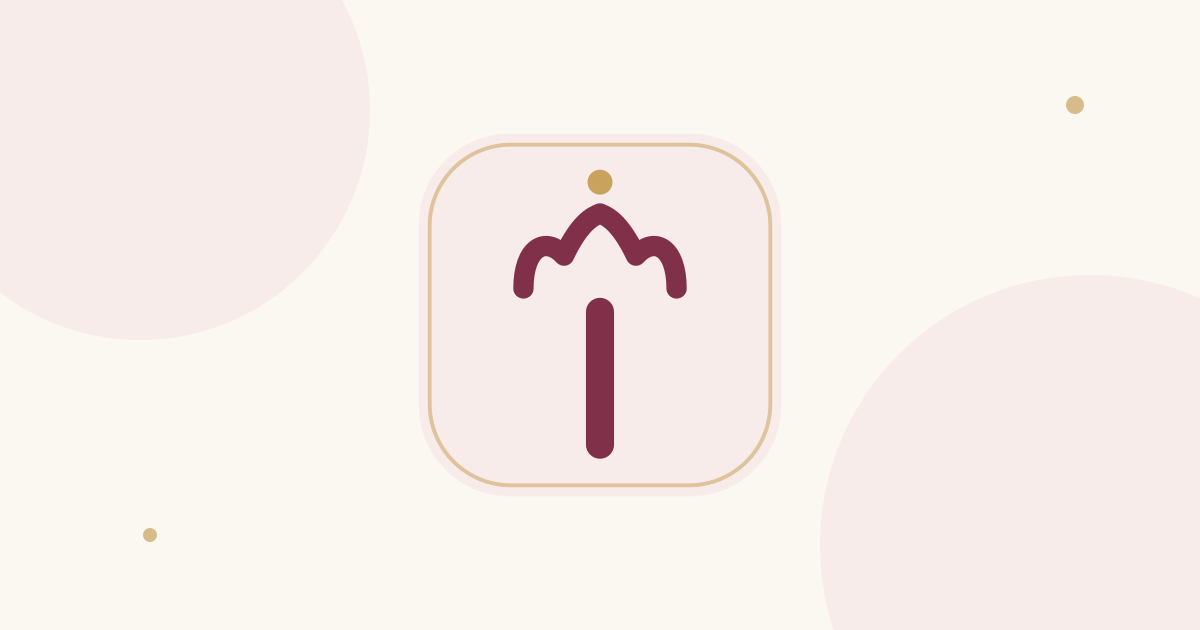
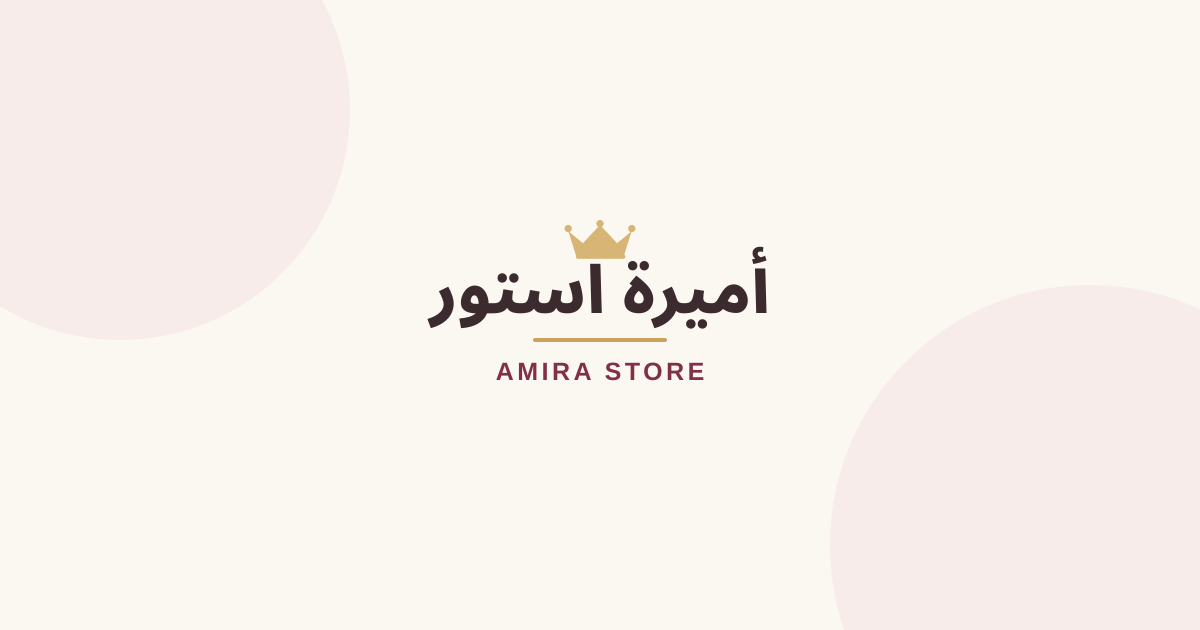
Add files via upload (#18)

diff --git a/src/components/brand/brand-logo.tsx b/src/components/brand/brand-logo.tsx
@@ -4,7 +4,7 @@ import { cn } from "@/lib/utils";
 import { LogoMark } from "./logo-mark";
 
 type BrandLogoProps = {
-  /** Custom logo URL (Admin-uploaded). Falls back to brand settings, then the default mark. */
+  /** Explicitly supplied custom asset. Used only when the caller opts into it. */
   logoUrl?: string | null;
   storeName?: string;
   className?: string;
@@ -14,16 +14,41 @@ type BrandLogoProps = {
   showArabicWordmark?: boolean;
   showEnglishWordmark?: boolean;
   englishWordmarkClassName?: string;
+  useCustomAsset?: boolean;
 };
 
+function Crown({ className }: { className?: string }) {
+  return (
+    <svg
+      aria-hidden="true"
+      viewBox="0 0 72 40"
+      className={cn("shrink-0 text-gold", className)}
+      fill="none"
+    >
+      <path
+        d="M10 11 22 21 36 6l14 15 12-10-7 22H17L10 11Z"
+        fill="currentColor"
+      />
+      <path
+        d="M18 32h37"
+        stroke="currentColor"
+        strokeWidth="3.5"
+        strokeLinecap="round"
+      />
+      <circle cx="10" cy="9" r="3" fill="currentColor" />
+      <circle cx="36" cy="5" r="3" fill="currentColor" />
+      <circle cx="62" cy="9" r="3" fill="currentColor" />
+    </svg>
+  );
+}
+
 /**
- * The only component feature UI may use to render the store logo.
- * Renders a custom admin-provided logo when available; otherwise renders the
- * default mark + wordmark. Keeps branding replaceable without code edits.
+ * Single storefront brand renderer.
  *
- * PHASE-10: settings-driven — the resolver reads the store_settings logo
- * reference (public media only, D-4) and falls back to the default mark.
- * Server component; explicit props still win (used by admin surfaces).
+ * The default storefront identity is a designed Arabic/English lockup with a
+ * visible crown, so an arbitrary admin-uploaded image cannot collapse the
+ * header into an unreadable thumbnail. Settings pages still show and manage
+ * the currently uploaded asset independently.
  */
 export async function BrandLogo({
   logoUrl,
@@ -35,41 +60,72 @@ export async function BrandLogo({
   showArabicWordmark = false,
   showEnglishWordmark = false,
   englishWordmarkClassName,
+  useCustomAsset = false,
 }: BrandLogoProps) {
   const settings = await getBrandSettings();
   const name = storeName ?? settings.storeName;
   const src = logoUrl ?? settings.logoUrl;
 
-  return (
-    <span className={cn("inline-flex min-w-0 items-center gap-2.5", className)}>
-      {src ? (
+  if (useCustomAsset && src && !(showArabicWordmark || showEnglishWordmark)) {
+    return (
+      <span className={cn("inline-flex min-w-0 items-center", className)}>
         <img
           src={src}
           alt={name}
-          className={cn("h-11 w-auto max-w-28 shrink-0 object-contain", logoClassName)}
+          className={cn("h-11 w-auto max-w-40 shrink-0 object-contain", logoClassName)}
         />
-      ) : (
-        <LogoMark className={cn("h-11 w-11", markClassName)} title={name} />
-      )}
-      <span className="flex min-w-0 flex-col gap-1">
-        {!src || showArabicWordmark ? (
-          <span className={cn("whitespace-nowrap text-xl font-extrabold leading-none tracking-tight", wordmarkClassName)}>
-            {name}
-          </span>
-        ) : null}
-        {showEnglishWordmark ? (
-          <span
-            dir="ltr"
-            lang="en"
-            className={cn(
-              "whitespace-nowrap text-[0.625rem] font-semibold leading-none tracking-[0.14em] text-gold-deep",
-              englishWordmarkClassName,
-            )}
-          >
-            {BRAND.storeNameLatin.toUpperCase()}
-          </span>
-        ) : null}
       </span>
+    );
+  }
+
+  const showArabic = showArabicWordmark || !showEnglishWordmark;
+  const showEnglish = showEnglishWordmark;
+
+  return (
+    <span
+      className={cn(
+        "inline-flex min-w-0 items-center gap-2.5",
+        className,
+      )}
+    >
+      {!showArabic && !showEnglish ? (
+        <LogoMark className={cn("h-10 w-10", markClassName)} title={name} />
+      ) : null}
+      {showArabic || showEnglish ? (
+        <span className="relative flex min-w-0 flex-col items-center pt-2">
+          {showArabic ? (
+            <>
+              <Crown className="absolute -top-1 h-4 w-7 sm:h-[1.1rem] sm:w-8" />
+              <span
+                className={cn(
+                  "whitespace-nowrap text-[1.05rem] font-extrabold leading-none tracking-tight text-foreground",
+                  wordmarkClassName,
+                )}
+              >
+                {name}
+              </span>
+            </>
+          ) : null}
+          {showEnglish ? (
+            <span
+              dir="ltr"
+              lang="en"
+              className={cn(
+                "mt-1 whitespace-nowrap text-[0.58rem] font-semibold uppercase leading-none tracking-[0.24em] text-gold-deep",
+                englishWordmarkClassName,
+              )}
+            >
+              {BRAND.storeNameLatin}
+            </span>
+          ) : null}
+          {showArabic && showEnglish ? (
+            <span
+              aria-hidden="true"
+              className="mt-1 h-px w-8 rounded-full bg-gold/80 sm:w-10"
+            />
+          ) : null}
+        </span>
+      ) : null}
     </span>
   );
 }

diff --git a/src/components/brand/logo-mark.tsx b/src/components/brand/logo-mark.tsx
@@ -5,13 +5,7 @@ type LogoMarkProps = {
   title?: string;
 };
 
-/**
- * The original default Amira Store mark (PHASE-01): a clear Arabic alef
- * monogram with a restrained champagne hamza, framed in the store palette.
- *
- * This component renders the DEFAULT mark only. `BrandLogo` switches to an
- * Admin-uploaded logo when one is configured.
- */
+/** Compact Amira Store crown + alef mark for favicon/compact placements. */
 export function LogoMark({ className, title = "شعار أميرة استور" }: LogoMarkProps) {
   return (
     <svg
@@ -32,35 +26,31 @@ export function LogoMark({ className, title = "شعار أميرة استور" }
         strokeOpacity="0.72"
         strokeWidth="4"
       />
-      <circle cx="256" cy="256" r="166" fill="#803049" />
+      <circle cx="256" cy="278" r="136" fill="#803049" />
       <path
-        d="M256 192v166"
+        d="M256 216v152"
         fill="none"
         stroke="#FFF9F4"
         strokeWidth="34"
         strokeLinecap="round"
       />
       <path
-        d="M178 166 163 128l41 21 52-43 52 43 41-21-15 38H178Z"
+        d="M150 166 126 103l78 41 52-72 52 72 78-41-24 63H150Z"
         fill="#D7B675"
         stroke="#803049"
-        strokeWidth="5"
+        strokeWidth="6"
         strokeLinejoin="round"
       />
       <path
-        d="M184 171h144"
+        d="M150 168h212"
         fill="none"
         stroke="#D7B675"
-        strokeWidth="10"
+        strokeWidth="13"
         strokeLinecap="round"
       />
-      <path
-        d="M222 390h68"
-        fill="none"
-        stroke="#D7B675"
-        strokeWidth="10"
-        strokeLinecap="round"
-      />
+      <circle cx="126" cy="101" r="10" fill="#D7B675" />
+      <circle cx="256" cy="70" r="10" fill="#D7B675" />
+      <circle cx="386" cy="101" r="10" fill="#D7B675" />
     </svg>
   );
 }

diff --git a/src/components/store/store-header.tsx b/src/components/store/store-header.tsx
@@ -30,8 +30,8 @@ export async function StoreHeader() {
   const tree = await getStorefrontCategoryTree();
 
   return (
-    <header className="sticky top-0 z-40 border-b border-border/80 bg-background">
-      <Container className="flex h-[3.75rem] items-center justify-between gap-2 xl:h-[4.5rem] xl:gap-4">
+    <header className="sticky top-0 z-40 border-b border-border/80 bg-background/95 backdrop-blur supports-[backdrop-filter]:bg-background/85">
+      <Container className="flex h-[4.1rem] items-center justify-between gap-2 xl:h-[4.75rem] xl:gap-4">
         <div className="flex min-w-0 items-center gap-1.5 sm:gap-2">
           <Sheet>
             <SheetTrigger
@@ -101,11 +101,9 @@ export async function StoreHeader() {
             <BrandLogo
               showArabicWordmark
               showEnglishWordmark
-              className="gap-1.5 sm:gap-2"
-              markClassName="size-9 sm:size-10 xl:size-12"
-              logoClassName="h-9 w-auto max-w-14 sm:h-10 sm:max-w-16 xl:h-12 xl:max-w-20"
-              wordmarkClassName="text-base sm:text-lg xl:text-xl"
-              englishWordmarkClassName="text-[0.6rem] sm:text-[0.625rem]"
+              className="shrink-0"
+              wordmarkClassName="text-[1rem] sm:text-[1.05rem] xl:text-xl"
+              englishWordmarkClassName="text-[0.52rem] sm:text-[0.56rem] xl:text-[0.6rem]"
             />
           </Link>
         </div>

diff --git a/src/app/admin/(protected)/layout.tsx b/src/app/admin/(protected)/layout.tsx
@@ -38,10 +38,10 @@ export default async function ProtectedAdminLayout({
             className="inline-flex max-w-full shrink-0 rounded-lg focus-visible:outline-2 focus-visible:outline-offset-2 focus-visible:outline-ring"
           >
             <BrandLogo
+              showArabicWordmark
               showEnglishWordmark
-              markClassName="h-12 w-12"
-              logoClassName="h-12 w-auto max-w-40"
               wordmarkClassName="text-lg"
+              englishWordmarkClassName="text-[0.56rem]"
             />
           </Link>
           <span className="hidden rounded-full bg-blush px-3 py-1 text-xs font-semibold text-secondary-foreground sm:inline">

diff --git a/src/components/store/store-footer.tsx b/src/components/store/store-footer.tsx
@@ -64,8 +64,11 @@ export async function StoreFooter() {
           {/* Brand */}
           <div className="flex flex-col items-start gap-4">
             <BrandLogo
+              showArabicWordmark
+              showEnglishWordmark
               className="text-footer-foreground"
-              markClassName="h-11 w-11"
+              wordmarkClassName="text-xl text-footer-foreground"
+              englishWordmarkClassName="text-[0.58rem] text-gold"
             />
             <p className="max-w-xs text-sm leading-loose text-footer-foreground/70">
               {settings.footerText}

diff --git a/src/app/admin/login/page.tsx b/src/app/admin/login/page.tsx
@@ -25,7 +25,12 @@ export default function AdminLoginPage() {
     >
       <div className="w-full max-w-md">
         <div className="mb-8 flex flex-col items-center gap-2 text-center">
-          <BrandLogo markClassName="h-12 w-12" wordmarkClassName="text-2xl" />
+          <BrandLogo
+            showArabicWordmark
+            showEnglishWordmark
+            wordmarkClassName="text-2xl"
+            englishWordmarkClassName="text-[0.66rem]"
+          />
           <p className="text-sm text-muted-foreground">{BRAND.tagline}</p>
         </div>
 

diff --git a/src/app/not-found.tsx b/src/app/not-found.tsx
@@ -20,7 +20,7 @@ export default function NotFound() {
             aria-label="أميرة استور — الصفحة الرئيسية"
             className="rounded-lg transition-opacity hover:opacity-80"
           >
-            <BrandLogo />
+            <BrandLogo showArabicWordmark showEnglishWordmark />
           </Link>
         </Container>
       </header>
